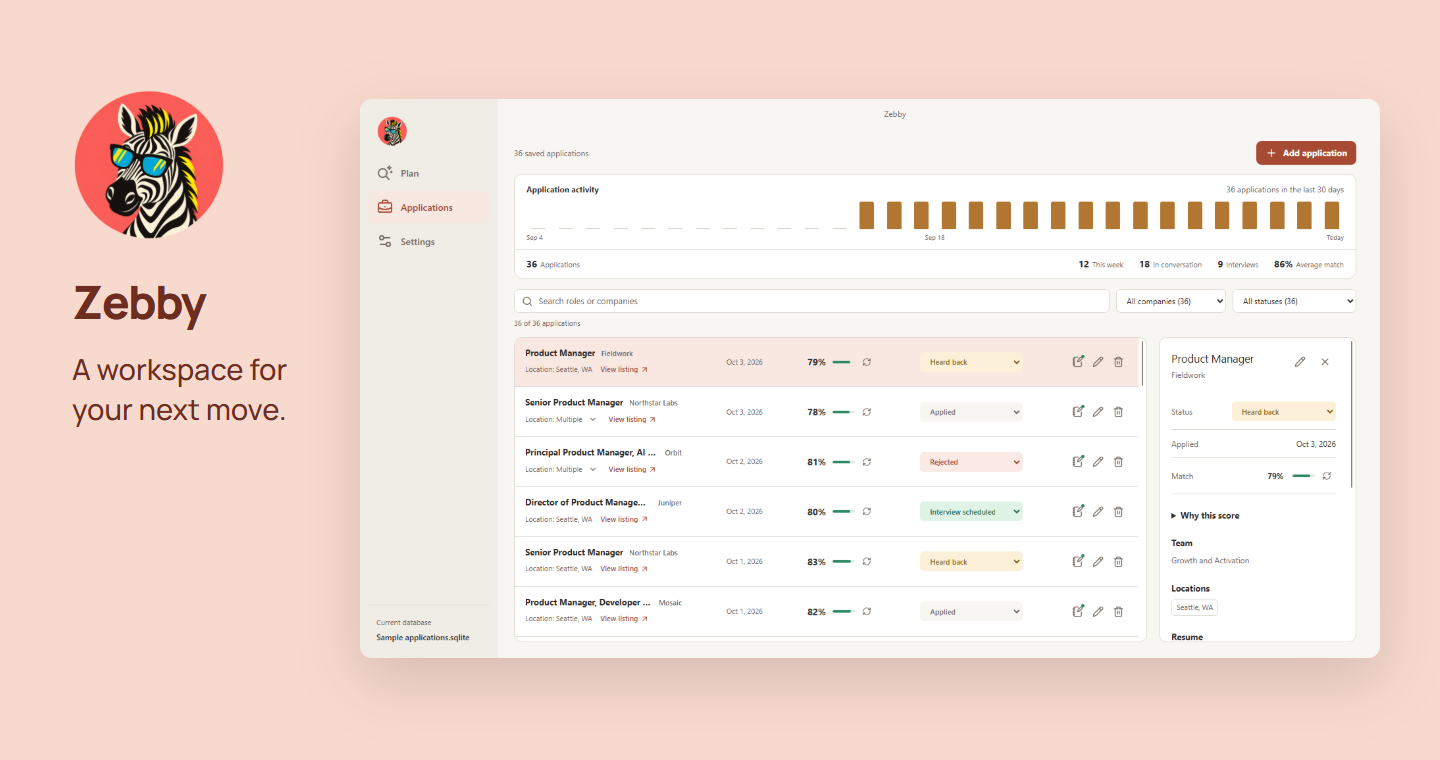
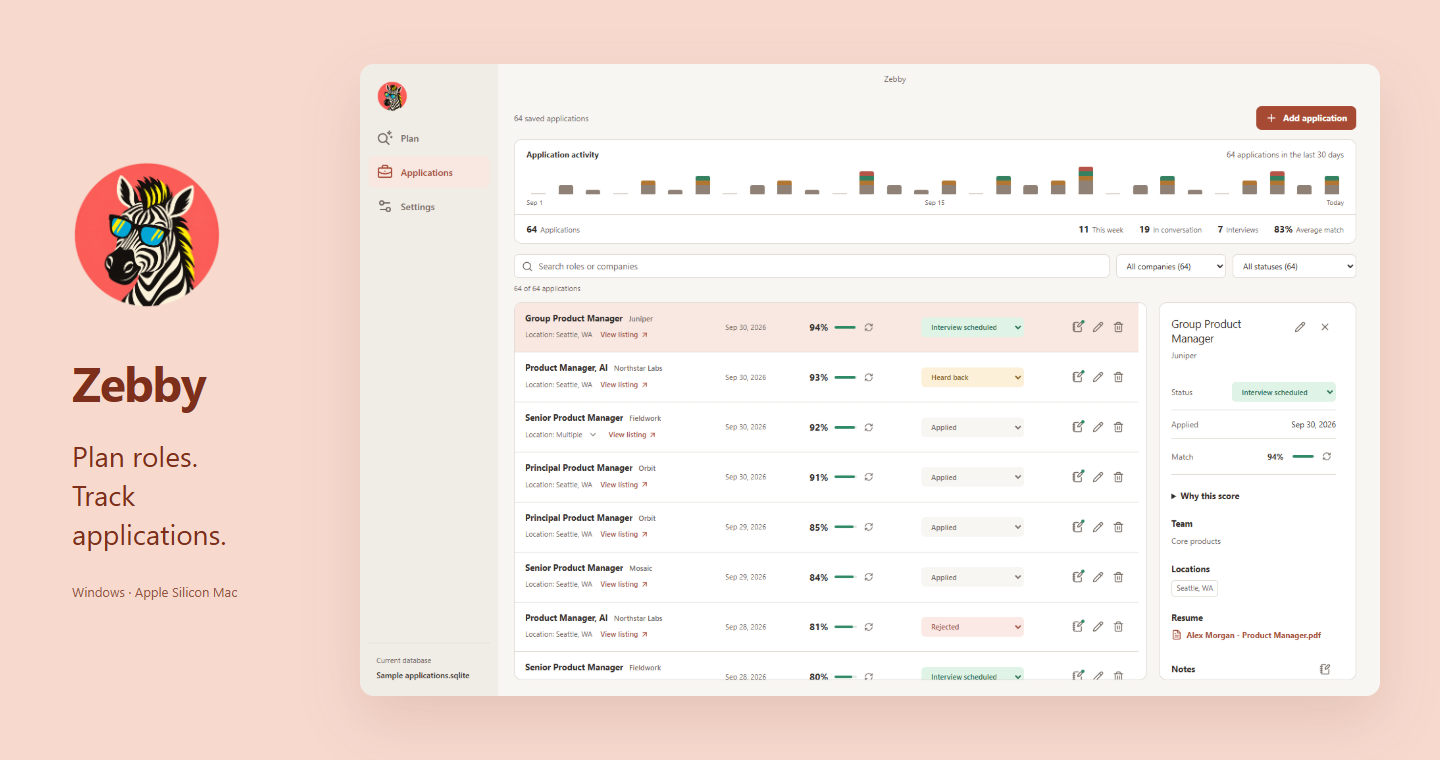
Refresh Zebby preview and analysis options

diff --git a/README.md b/README.md
@@ -14,40 +14,48 @@ I build apps around problems I run into.
 
 ### <img src="assets/zebby-icon.png" width="32" height="32" align="absmiddle" alt=""> &nbsp; [Zebby](https://github.com/desigrit/zebby-the-scout)
 
-**A desktop workspace for role planning and application tracking.** History, documents, and the reasoning for each application in one place.
+**Plan a role, prepare your CV and track what happens next.** A desktop app for job seekers, with local models, your own API keys or optional Zebby credits.
 
-<a href="assets/zebby.png">
+<a href="assets/zebby.png?v=2.2.2">
   <picture>
-    <source media="(max-width: 600px)" srcset="assets/zebby-cover-mobile.png">
-    <img src="assets/zebby-cover.png" width="1200" alt="Zebby: a workspace for your next move. The desktop interface shows sample applications and the selected role's details. Open the full-size screenshot.">
+    <source media="(max-width: 600px)" srcset="assets/zebby-cover-mobile.png?v=2.2.2">
+    <img src="assets/zebby-cover.png?v=2.2.2" width="1200" alt="Zebby 2.2.2 with varied daily application totals, stacked statuses and the selected role's details. Open the full-size screenshot.">
   </picture>
 </a>
 
-<sub>Sample application data.</sub>
+<sub>Sample applications and analysis results.</sub>
 
 **[Download for Windows or Mac](https://github.com/desigrit/zebby-the-scout/releases/latest)** &nbsp; / &nbsp; [Repository](https://github.com/desigrit/zebby-the-scout)
 
 <details>
+<summary>Analysis options and credits</summary>
+
+- **Bring your own key:** OpenAI or Anthropic, billed to your provider account.
+- **Run locally:** use your Ollama server or download a CPU model in Settings.
+- **Zebby credits:** buy a pack for online analysis, then choose GPT-6.1 Sol or GPT-6 Astra. No signup or API key needed.
+
+#### Your own API key
+
+<img src="assets/zebby-key-settings.png?v=2.2.2" width="1200" alt="Zebby's current Settings with OpenAI selected, a masked demo key, model selection and supported thinking levels.">
+
+#### Optional credit packs
+
+<img src="assets/zebby-credits.png?v=2.2.2" width="930" alt="Zebby's credit purchase dialog with current packs and illustrative GPT-6.1 Sol High analysis counts.">
+
+Zebby shows the maximum credit cost before analysis and charges for actual usage. A recovery code restores your wallet; computer pairing shares it across your PCs.
+
+</details>
+
+<details>
 <summary>Inside the build / Technical notes</summary>
 
-Built with Electron, React, TypeScript, SQLite, and a native CPU inference engine.
+Electron, React, TypeScript, SQLite and a native CPU inference engine.
 
-- **Portable data, local credentials.** Plans, applications, and resumes live in a user-selected SQLite file. The app works on a local copy and saves complete snapshots, checking for outside changes before writing. Keys and model weights stay outside the shared file; simultaneous edits on two computers are not merged.
-- **An explicit model choice.** Built-in models, a chosen Ollama server, and hosted providers share an analysis contract. A failed request does not silently switch providers or models, and oversized inputs produce an error instead of hidden truncation.
-- **Keep inference out of the interface.** A typed Electron bridge separates the React UI from storage and analysis. The bundled engine runs in a separate process, listens only on loopback with an app-generated secret, and releases memory when idle.
+- **Portable data:** plans, applications and resumes live in a SQLite file you choose. Close Zebby and let cloud syncing finish before switching computers.
+- **Explicit analysis:** use the selected local or online model, with no silent fallback. Online methods send the selected job and CV content to that provider.
+- **Separate credentials:** API keys, wallet access and model downloads stay on each computer, outside the shared database.
 
-```mermaid
-flowchart TD
-    accTitle: Zebby architecture
-    accDescr: The React interface uses Electron IPC to reach the desktop main process. The process manages SQLite snapshots and routes analysis to the explicitly selected local engine, Ollama server, or hosted provider.
-    UI["React interface"] <-->|"typed Electron IPC"| Main["Desktop main process"]
-    Main <-->|"working copy and snapshots"| DB[("SQLite workspace")]
-    Main <-->|"analysis contract"| Route["Selected provider"]
-    Route <--> Local["Native CPU engine"]
-    Route <--> API["Ollama or hosted API"]
-```
-
-[Build guide and storage decisions](https://github.com/desigrit/zebby-the-scout/blob/main/docs/guide.md) &nbsp; / &nbsp; [Analysis routing](https://github.com/desigrit/zebby-the-scout/blob/main/desktop/analysis-routing.ts)
+[Build and storage guide](https://github.com/desigrit/zebby-the-scout/blob/main/docs/guide.md) &nbsp; / &nbsp; [Analysis routing](https://github.com/desigrit/zebby-the-scout/blob/main/desktop/analysis-routing.ts)
 
 </details>
 
